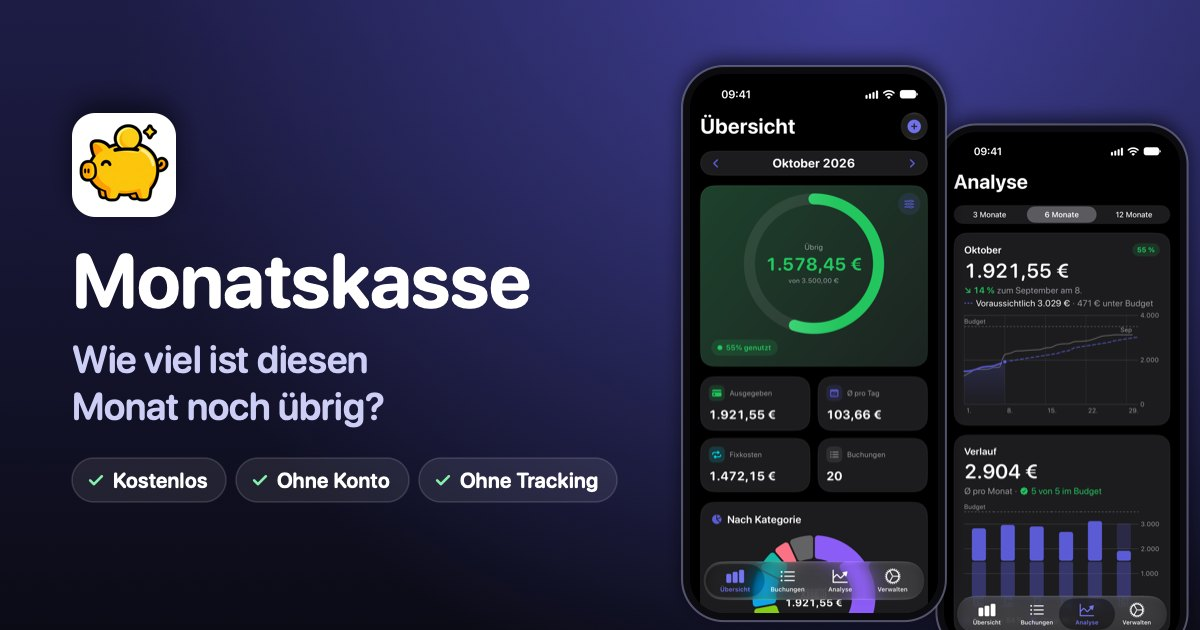
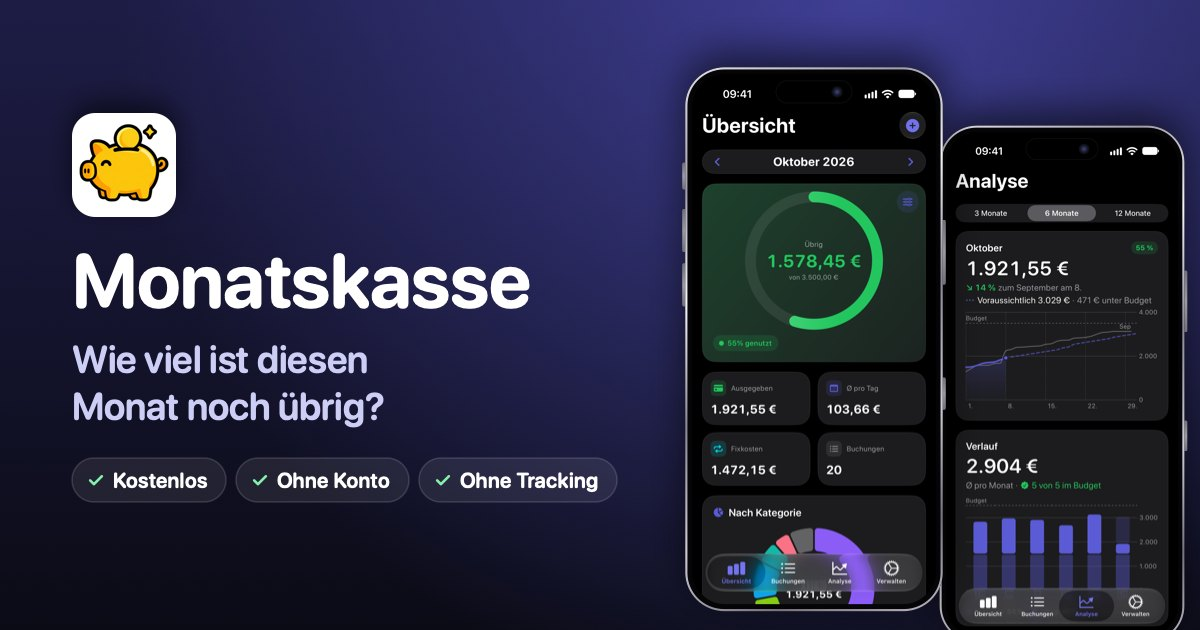
Screenshots in echten iPhone- und iPad-Rahmen
iPhones im Rahmen des iPhone 17 Pro (Titanrand, Glasrand, Dynamic Island,
Tasten), das iPad im Rahmen des iPad Pro 13″ – reines CSS, wächst mit der
Breite. Die Teilbilder zeigen dasselbe iPhone.

diff --git a/styles/site.css b/styles/site.css
@@ -1,5 +1,5 @@
-/* Monatskasse – Gestaltung der Seite. Unverändert aus der ersten Fassung übernommen;
-   neu sind nur Sprachwahl, Sprachhinweis und 404-Seite am Ende. */
+/* Monatskasse – Gestaltung der Seite. Aus der ersten Fassung übernommen; neu sind
+   Sprachwahl, Sprachhinweis, 404-Seite und der iPhone-Rahmen am Ende. */
 :root {
   --bg: #ffffff;
   --bg-alt: #f4f4f8;
@@ -118,14 +118,6 @@ svg.i { width: 22px; height: 22px; flex: none; fill: none; stroke: currentColor;
   filter: drop-shadow(0 26px 34px rgba(0, 0, 0, 0.55));
 }
 
-/* Screenshots */
-.shot {
-  display: block; height: auto; background: #000;
-  border-radius: 13% / 5.98%;
-  box-shadow: 0 0 0 1px var(--ring), 0 44px 80px -34px rgba(12, 10, 40, 0.5), 0 18px 36px -26px rgba(12, 10, 40, 0.35);
-}
-.hero .shot { box-shadow: 0 0 0 1px rgba(255, 255, 255, 0.16), 0 50px 90px -30px rgba(0, 0, 0, 0.8); }
-
 /* Abschnitte */
 section { padding: 104px 0; }
 .alt { background: var(--bg-alt); }
@@ -148,7 +140,6 @@ section { padding: 104px 0; }
   content: ""; position: absolute; width: 92%; aspect-ratio: 1; border-radius: 50%;
   background: radial-gradient(closest-side, color-mix(in srgb, var(--k) 30%, transparent), transparent);
 }
-.media .shot { position: relative; width: min(300px, 74vw); }
 
 /* Widgets und iPad */
 .bento { display: grid; grid-template-columns: 1fr 1fr; gap: 20px; margin-top: 56px; }
@@ -169,11 +160,7 @@ section { padding: 104px 0; }
 .widget-stage img { width: min(100%, 430px); filter: drop-shadow(0 26px 40px rgba(0, 0, 0, 0.42)); }
 .card-ipad { background: var(--card); border: 1px solid var(--line); box-shadow: var(--shadow); }
 .card-ipad p:not(.kicker) { color: var(--muted); }
-.ipad {
-  display: block; width: 84%; margin: 40px auto -36%;
-  border-radius: 3.2% / 2.4%;
-  box-shadow: 0 0 0 1px var(--ring), 0 30px 60px -28px rgba(12, 10, 40, 0.45);
-}
+.ipad { display: block; width: 84%; margin: 40px auto -36%; }
 
 /* Weitere Funktionen */
 .grid { display: grid; grid-template-columns: repeat(3, 1fr); gap: 16px; margin-top: 56px; }
@@ -391,3 +378,104 @@ footer { border-top: 1px solid var(--line); padding: 36px 0 52px; color: var(--m
   .lang-hint .wrap { flex-wrap: wrap; row-gap: 6px; }
   .lang-hint p { flex-basis: calc(100% - 76px); }
 }
+
+/* iPhone-Rahmen – wie auf sayumi.app, nachgebaut nach dem iPhone 17 Pro: feiner Titanrahmen,
+   schmaler schwarzer Glasrand, Bildschirmecken im iOS-Radius (konzentrisch zur Aussenkante),
+   Dynamic Island und Tasten. Alle Masse hängen an der Breite des Telefons selbst. */
+.phone, .tablet {
+  --metal: linear-gradient(150deg, #e4e2ea 0%, #a29fac 18%, #f6f5f9 34%, #8b8896 52%, #cfccd6 70%, #77747f 86%, #bdbac5 100%);
+}
+.phone {
+  --rim: 2.5px;
+  position: relative;
+  border: var(--rim) solid transparent;
+  /* Aussen = Bildschirmradius + Glasrand, damit die Ecken parallel laufen */
+  border-radius: 15.3% / 7.1%;
+  background: linear-gradient(#050507, #050507) padding-box, var(--metal) border-box;
+  box-shadow: 0 0 0 0.5px rgba(30, 24, 70, 0.25), 0 44px 80px -34px rgba(12, 10, 40, 0.5), 0 18px 36px -26px rgba(12, 10, 40, 0.35);
+}
+.hero .phone { box-shadow: 0 0 0 0.5px rgba(0, 0, 0, 0.5), 0 50px 90px -30px rgba(0, 0, 0, 0.8); }
+/* Tasten: links Action-Taste und Lautstärke, rechts Seitentaste und Kamerasteuerung */
+.phone::before, .phone::after {
+  content: ""; position: absolute; top: 0; bottom: 0; width: 3px; pointer-events: none;
+}
+.phone::before {
+  left: calc(-1 * var(--rim) - 2px);
+  background: linear-gradient(to bottom,
+    transparent 17.5%, #9f9caa 17.5%, #d8d6de 20%, #9f9caa 22.5%,
+    transparent 22.5%, transparent 26%, #9f9caa 26%, #d8d6de 30%, #9f9caa 34%,
+    transparent 34%, transparent 36%, #9f9caa 36%, #d8d6de 40%, #9f9caa 44%, transparent 44%);
+  border-radius: 2px 0 0 2px;
+}
+.phone::after {
+  right: calc(-1 * var(--rim) - 2px);
+  background: linear-gradient(to bottom,
+    transparent 28%, #9f9caa 28%, #d8d6de 34%, #9f9caa 40%, transparent 40%,
+    transparent 57%, #8e8b98 57%, #c4c1cb 60%, #8e8b98 63%, transparent 63%);
+  border-radius: 0 2px 2px 0;
+}
+.phone__screen {
+  position: relative; overflow: hidden; isolation: isolate;
+  /* Schwarzer Glasrand: 1,8 % der Telefonbreite */
+  margin: 1.8%;
+  /* iOS-Bildschirmecke: 55 pt bei 402 pt Breite */
+  border-radius: 13.7% / 6.3%;
+  background: #000;
+  aspect-ratio: 1206 / 2622;
+}
+.phone__screen::before {
+  /* Hauch von Glas: feiner Lichtrand an der Bildschirmkante */
+  content: ""; position: absolute; inset: 0; z-index: 2; border-radius: inherit; pointer-events: none;
+  box-shadow: inset 0 0 0 1px rgba(0, 0, 0, 0.35), inset 0 1px 1px rgba(255, 255, 255, 0.08);
+}
+.phone__screen::after {
+  /* Dynamic Island – mit Kameralinse und hauchfeinem Rand, damit sie auch auf dunklen
+     Aufnahmen zu erkennen ist (wie auf Apples Produktbildern) */
+  content: ""; position: absolute; z-index: 1; top: 1.27%; left: 50%; width: 31.1%; height: 4.2%;
+  transform: translateX(-50%); border-radius: 999px;
+  background:
+    radial-gradient(circle at 80.5% 50%, rgba(96, 108, 168, 0.6) 0, rgba(32, 36, 62, 0.95) 2.2%, #08080d 4.4%, transparent 5.4%),
+    #000;
+  box-shadow: 0 0 0 0.5px rgba(255, 255, 255, 0.09);
+}
+.phone__screen img { position: absolute; inset: 0; width: 100%; height: 100%; object-fit: cover; }
+.hero-phone.phone { display: block; }
+.media .phone { position: relative; width: min(300px, 74vw); }
+
+/* iPad-Rahmen – passend zum iPhone, nachgebaut nach dem iPad Pro 13″: gleichmässig schmaler
+   schwarzer Rand (gut 4 % der Breite), Silberrahmen, Bildschirmecken im iPadOS-Radius,
+   Frontkamera im Rand (beim iPad Pro an der langen Seite) und Lautstärketasten. */
+.tablet {
+  --rim: 2px;
+  position: relative;
+  border: var(--rim) solid transparent;
+  /* Aussen = Bildschirmradius + Rand, damit die Ecken parallel laufen */
+  border-radius: 5.9% / 4.4%;
+  background: linear-gradient(#050507, #050507) padding-box, var(--metal) border-box;
+  box-shadow: 0 0 0 0.5px rgba(30, 24, 70, 0.25), 0 30px 60px -28px rgba(12, 10, 40, 0.45);
+}
+.tablet::before {
+  /* Lautstärketasten rechts oben */
+  content: ""; position: absolute; top: 0; bottom: 0; right: calc(-1 * var(--rim) - 2px); width: 3px; pointer-events: none;
+  background: linear-gradient(to bottom,
+    transparent 7%, #9f9caa 7%, #d8d6de 9%, #9f9caa 11%, transparent 11%,
+    transparent 12.5%, #9f9caa 12.5%, #d8d6de 14.5%, #9f9caa 16.5%, transparent 16.5%);
+  border-radius: 0 2px 2px 0;
+}
+.tablet::after {
+  /* Frontkamera im Rand */
+  content: ""; position: absolute; top: 50%; right: 1.65%; width: 0.9%; aspect-ratio: 1; transform: translate(50%, -50%);
+  border-radius: 50%; background: radial-gradient(circle at 40% 40%, #3a3f63 0, #15172a 45%, #050507 75%);
+}
+.tablet__screen {
+  position: relative; overflow: hidden; isolation: isolate;
+  margin: 4.1%;
+  border-radius: 1.85% / 1.4%;
+  background: #000;
+  aspect-ratio: 1032 / 1376;
+}
+.tablet__screen::before {
+  content: ""; position: absolute; inset: 0; z-index: 1; border-radius: inherit; pointer-events: none;
+  box-shadow: inset 0 0 0 1px rgba(0, 0, 0, 0.35), inset 0 1px 1px rgba(255, 255, 255, 0.08);
+}
+.tablet__screen img { position: absolute; inset: 0; width: 100%; height: 100%; object-fit: cover; }

diff --git a/components/home/Features.tsx b/components/home/Features.tsx
@@ -2,6 +2,7 @@ import type { CSSProperties } from "react";
 import { image, type Language } from "@/i18n/config";
 import type { Dictionary } from "@/i18n/types";
 import { Icon, type IconName } from "../IconSprite";
+import Phone from "../Phone";
 
 // Aufbau der vier Zeilen, gleich in jeder Sprache: Symbol, Farbe, Bild, Seite des Bilds.
 const rows: { icon: IconName; color?: string; image: string; flip: boolean }[] = [
@@ -45,7 +46,7 @@ export default function Features({ lang, t }: { lang: Language; t: Dictionary })
                 </ul>
               </div>
               <figure className="media">
-                <img className="shot" src={image(lang, layout.image)} width="660" height="1434" loading="lazy" decoding="async" alt={row.alt} />
+                <Phone src={image(lang, layout.image)} alt={row.alt} />
               </figure>
             </article>
           );

diff --git a/components/home/Hero.tsx b/components/home/Hero.tsx
@@ -1,6 +1,7 @@
 import { image, type Language } from "@/i18n/config";
 import type { Dictionary } from "@/i18n/types";
 import { Icon } from "../IconSprite";
+import Phone from "../Phone";
 
 export default function Hero({ lang, t }: { lang: Language; t: Dictionary }) {
   return (
@@ -30,7 +31,7 @@ export default function Hero({ lang, t }: { lang: Language; t: Dictionary }) {
           </div>
         </div>
         <div className="hero-visual">
-          <img className="shot hero-phone" src={image(lang, "overview.jpg")} width="660" height="1434" fetchPriority="high" alt={t.hero.phoneAlt} />
+          <Phone className="hero-phone" src={image(lang, "overview.jpg")} alt={t.hero.phoneAlt} priority />
           <img className="hero-widget" src={image(lang, "widget-small.png")} width="353" height="353" alt={t.hero.widgetAlt} />
         </div>
       </div>

diff --git a/components/Phone.tsx b/components/Phone.tsx
@@ -1,0 +1,28 @@
+/**
+ * Ein Screenshot im iPhone-Rahmen (nachgebaut nach dem iPhone 17 Pro, reines CSS –
+ * siehe „iPhone-Rahmen“ in styles/site.css). Die Breite bestimmt der Ort, an dem das
+ * Telefon steht; alle Masse des Rahmens hängen daran.
+ */
+export default function Phone({
+  src,
+  alt,
+  className,
+  priority = false,
+}: {
+  src: string;
+  alt: string;
+  className?: string;
+  priority?: boolean;
+}) {
+  return (
+    <div className={className ? `phone ${className}` : "phone"}>
+      <div className="phone__screen">
+        {priority ? (
+          <img src={src} width="660" height="1434" fetchPriority="high" alt={alt} />
+        ) : (
+          <img src={src} width="660" height="1434" loading="lazy" decoding="async" alt={alt} />
+        )}
+      </div>
+    </div>
+  );
+}

diff --git a/components/home/Devices.tsx b/components/home/Devices.tsx
@@ -1,6 +1,7 @@
 import { image, type Language } from "@/i18n/config";
 import type { Dictionary } from "@/i18n/types";
 import { Icon } from "../IconSprite";
+import Tablet from "../Tablet";
 
 export default function Devices({ lang, t }: { lang: Language; t: Dictionary }) {
   const { widgets, ipad } = t.devices;
@@ -30,7 +31,7 @@ export default function Devices({ lang, t }: { lang: Language; t: Dictionary }) 
             </p>
             <h3>{ipad.title}</h3>
             <p dangerouslySetInnerHTML={{ __html: ipad.text }} />
-            <img className="ipad" src={image(lang, "ipad.jpg")} width="1032" height="1376" loading="lazy" decoding="async" alt={ipad.alt} />
+            <Tablet className="ipad" src={image(lang, "ipad.jpg")} alt={ipad.alt} />
           </div>
         </div>
       </div>

diff --git a/components/Tablet.tsx b/components/Tablet.tsx
@@ -1,0 +1,13 @@
+/**
+ * Ein Screenshot im iPad-Rahmen (nachgebaut nach dem iPad Pro 13″, reines CSS – siehe
+ * „iPad-Rahmen“ in styles/site.css). Die Breite bestimmt der Ort, an dem es steht.
+ */
+export default function Tablet({ src, alt, className }: { src: string; alt: string; className?: string }) {
+  return (
+    <div className={className ? `tablet ${className}` : "tablet"}>
+      <div className="tablet__screen">
+        <img src={src} width="1032" height="1376" loading="lazy" decoding="async" alt={alt} />
+      </div>
+    </div>
+  );
+}
